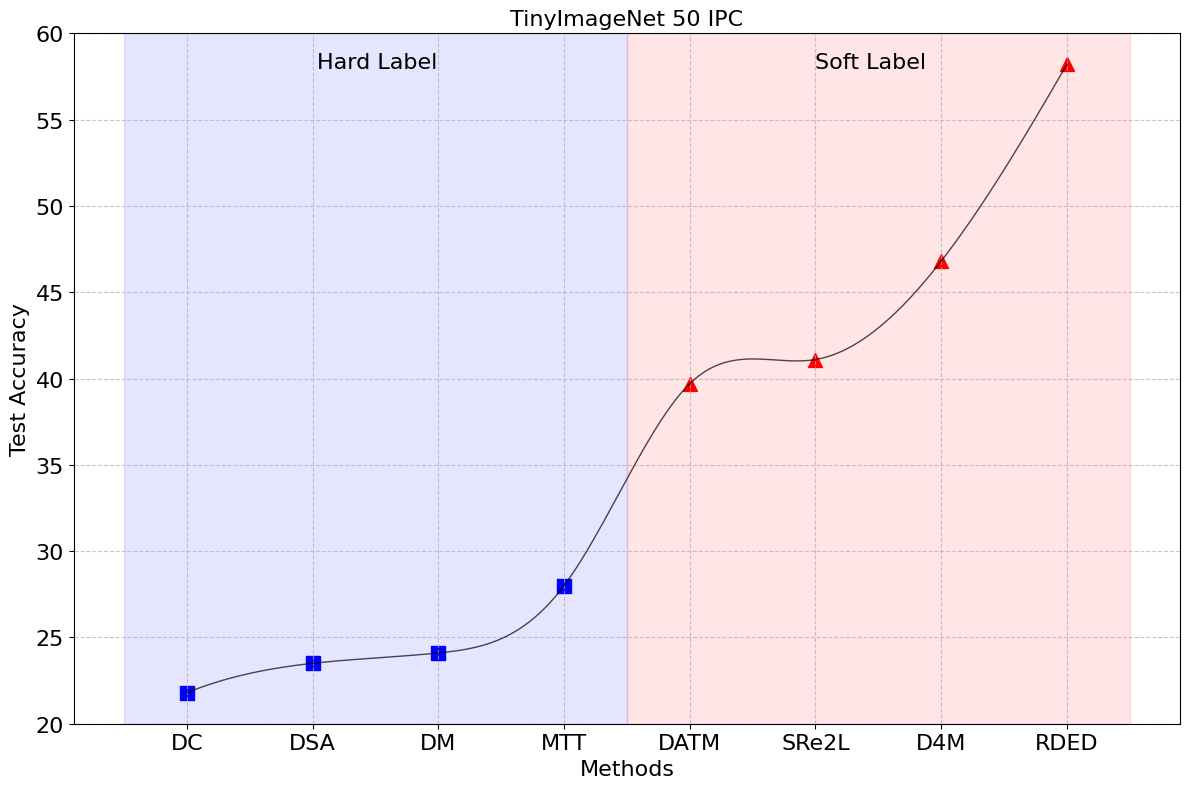
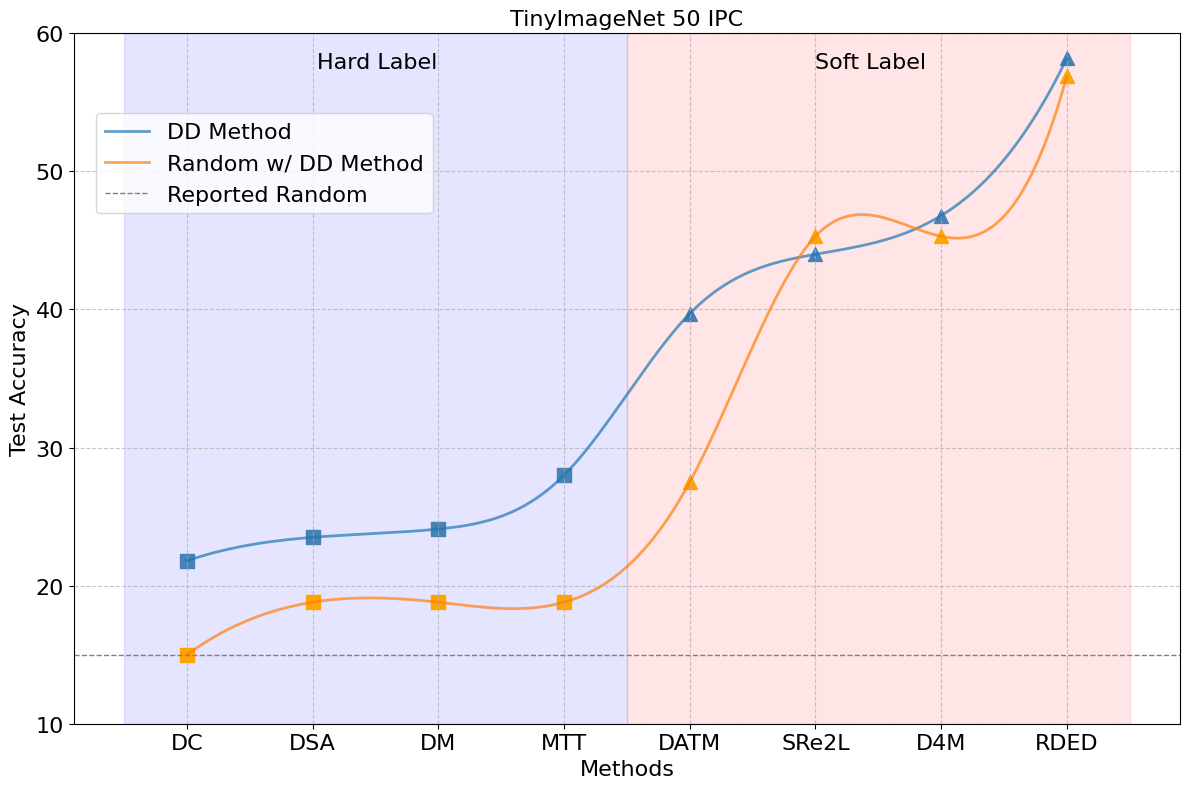
Update image

diff --git a/doc/introduction.md b/doc/introduction.md
@@ -11,14 +11,16 @@ Dataset Distillation (DD) aims to condense a large dataset into a much smaller o
 Notebaly, more and more methods are transitting from "hard label" to "soft label" in dataset distillation, especially during evaluation. **Hard labels** are categorical, having the same format of the real dataset. **Soft labels** are distributions, typically generated by a pre-trained teacher model. 
 Recently, Deng et al., pointed out that "a label is worth a thousand images". They showed analytically that soft labels are exetremely useful for accuracy improvement. 
 
-However, since the essence of soft labels is **knowledge distillation**, we want to ask a question: **Can the test accuracy of the model trained on distilled data reflect the real informativeness of the distilled data?**
+However, since the essence of soft labels is **knowledge distillation**, we find that when applying the same evaluation method to randomly selected data, the test accuracy also improves significantly (see the figure above).
 
-Specifically, we have discoverd unfairness of using only test accuracy to demonstrate one's performance from the following three aspects:
+This makes us wonder: **Can the test accuracy of the model trained on distilled data reflect the real informativeness of the distilled data?**
+
+Additionally, we have discoverd unfairness of using only test accuracy to demonstrate one's performance from the following three aspects:
 1. Results of using hard and soft labels are not directly comparable since soft labels introduce teacher knowledge.
 2. Strategies of using soft labels are diverse. For instance, different objective functions are used during evaluation, such as soft Cross-Entropy and Kullback–Leibler divergence. Also, one image may be mapped to one or multiple soft labels.
 3. Different data augmentations are used during evaluation.
 
-Motivated by this, we propose DD-Ranking, a new benchmark for DD evaluation. DD-Ranking provides a fair evaluation scheme for DD methods that can decouple the impacts from knowledge distillation and data augmentation to reflect the real informativeness of the distilled data.
+Motivated by this, we propose DD-Ranking, a new benchmark for DD evaluation. DD-Ranking provides a fair evaluation scheme for DD methods, and can decouple the impacts from knowledge distillation and data augmentation to reflect the real informativeness of the distilled data.
 
 ## Features
 

diff --git a/README.md b/README.md
@@ -3,9 +3,9 @@
 <p align="center">
   <picture>
   <!-- Dark theme logo -->
-    <source media="(prefers-color-scheme: dark)" srcset="XX.png">
+    <source media="(prefers-color-scheme: dark)" srcset="static/logo.png">
     <!-- Light theme logo -->
-    <img alt="vLLM" src="XX.png" width=55%>
+    <img alt="DD-Ranking" src="static/logo.png" width=55%>
   </picture>
 </p>
 
